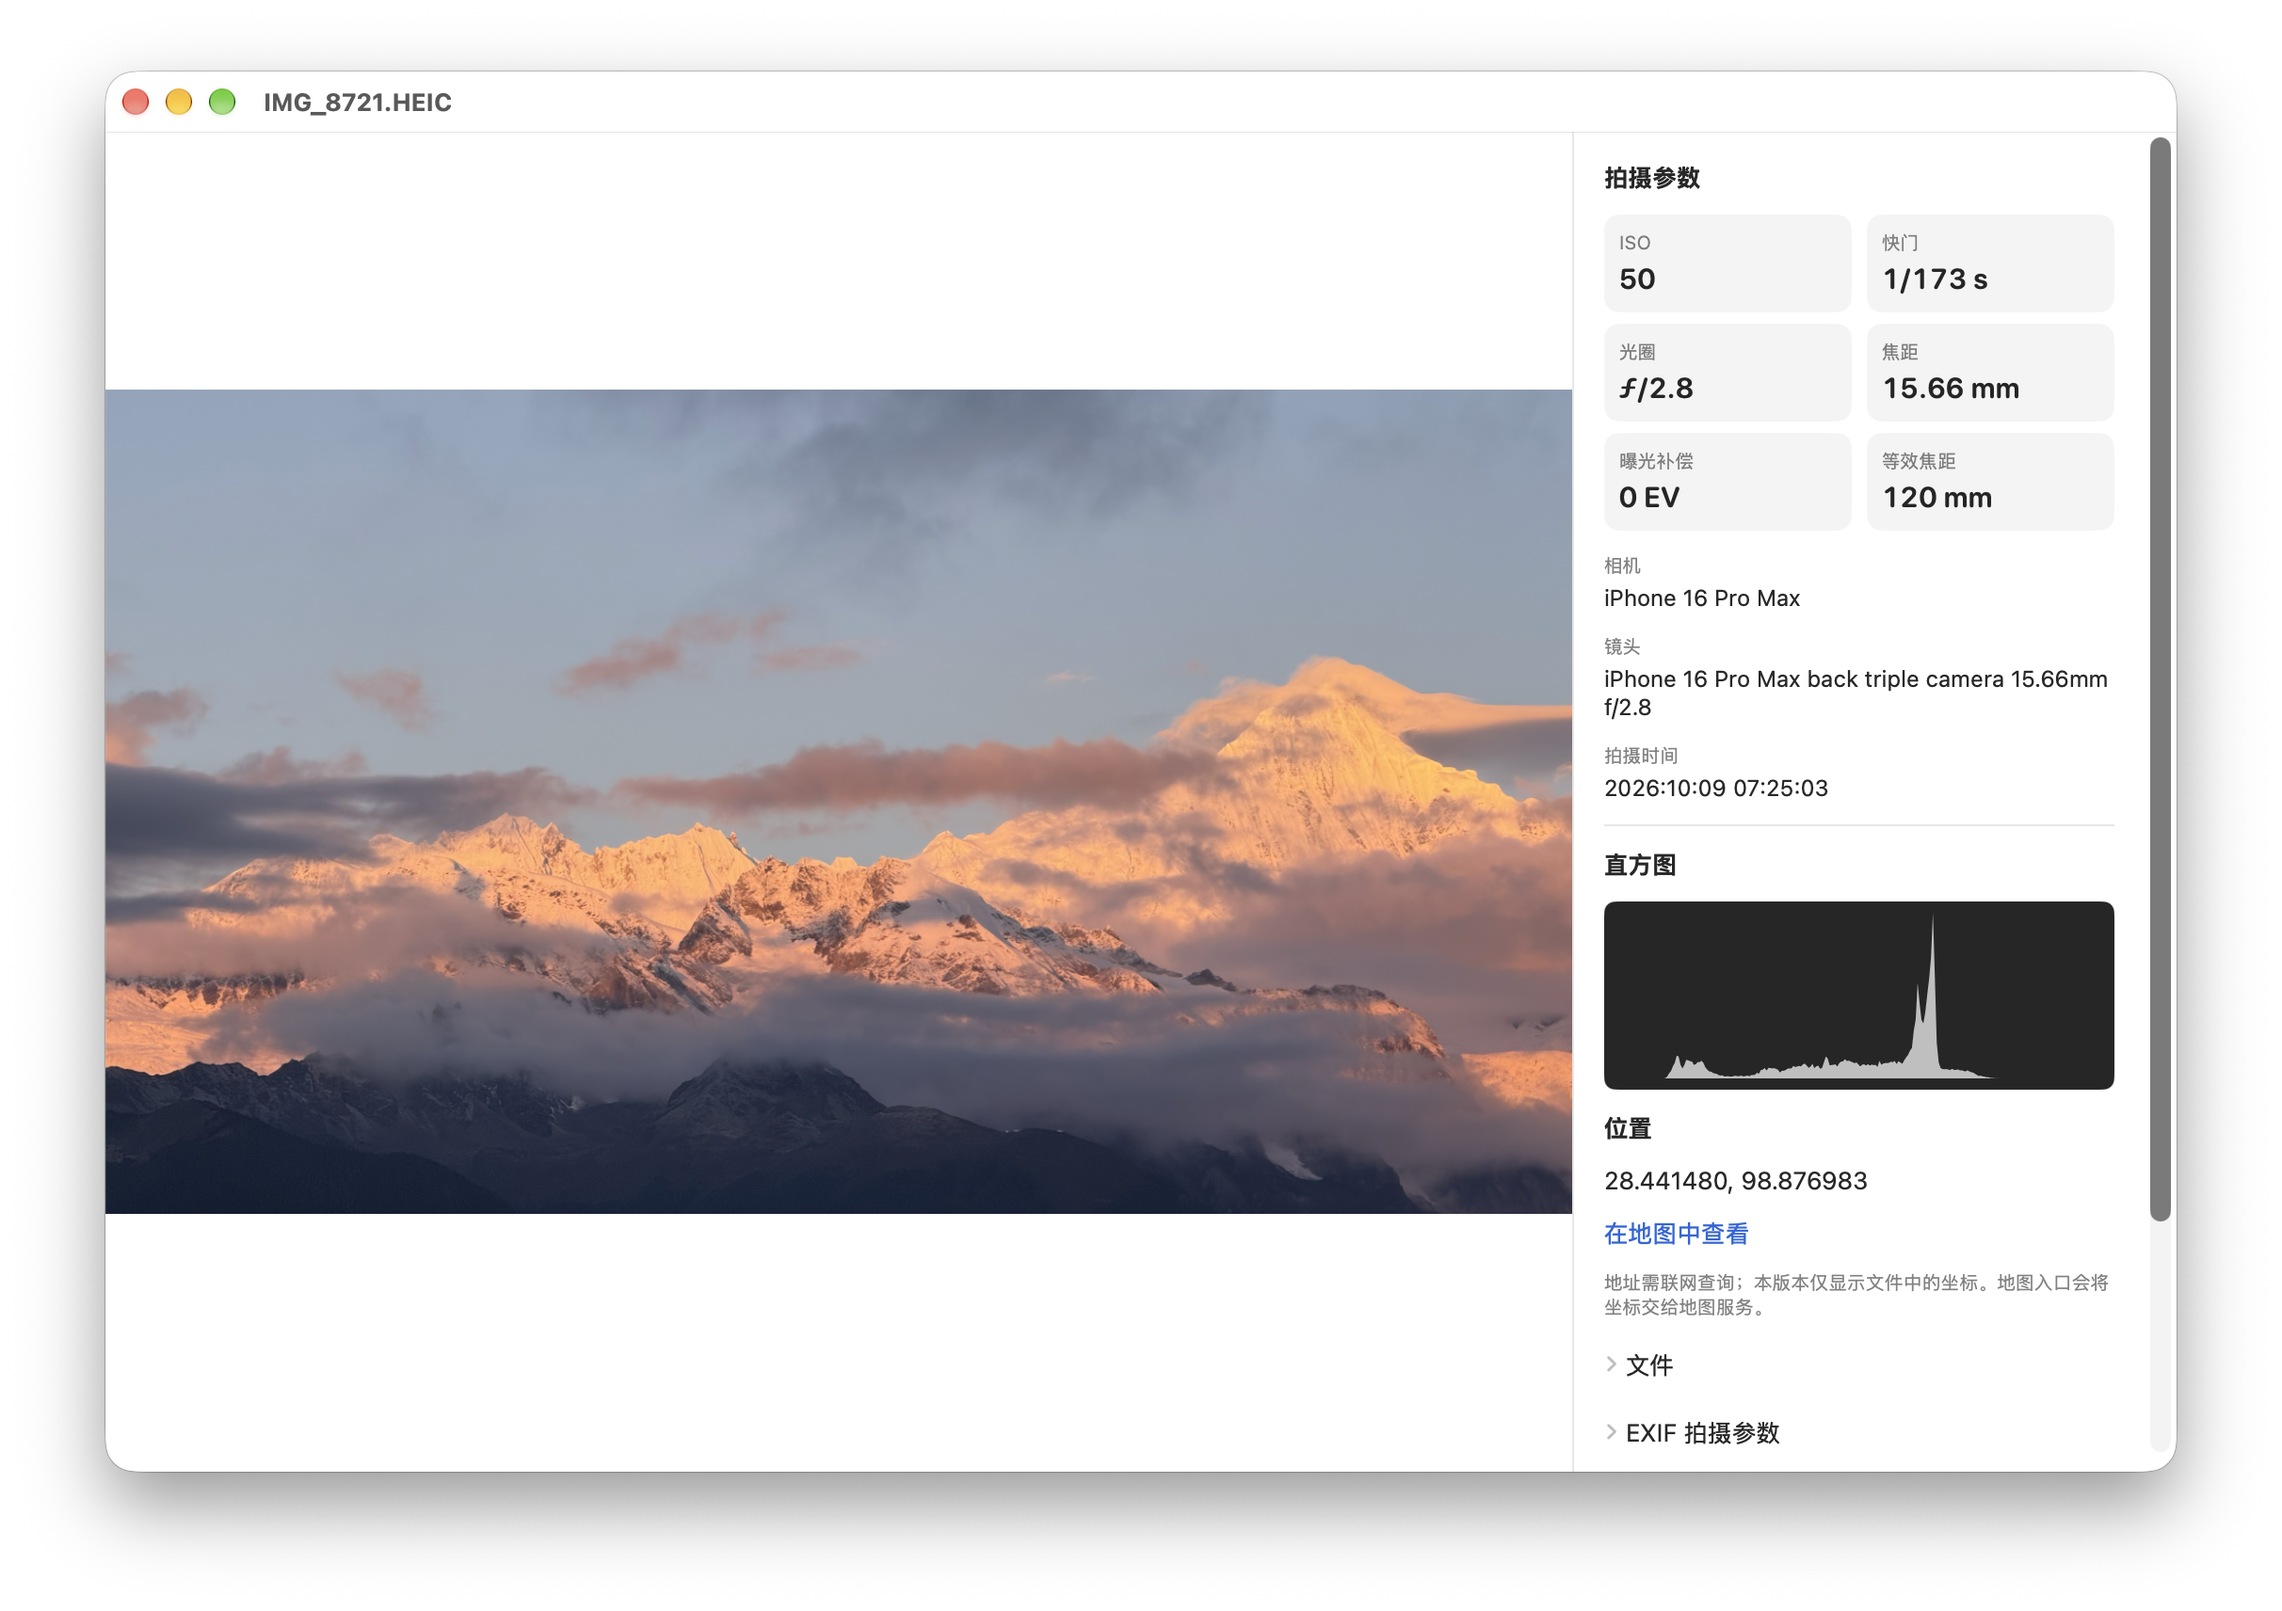
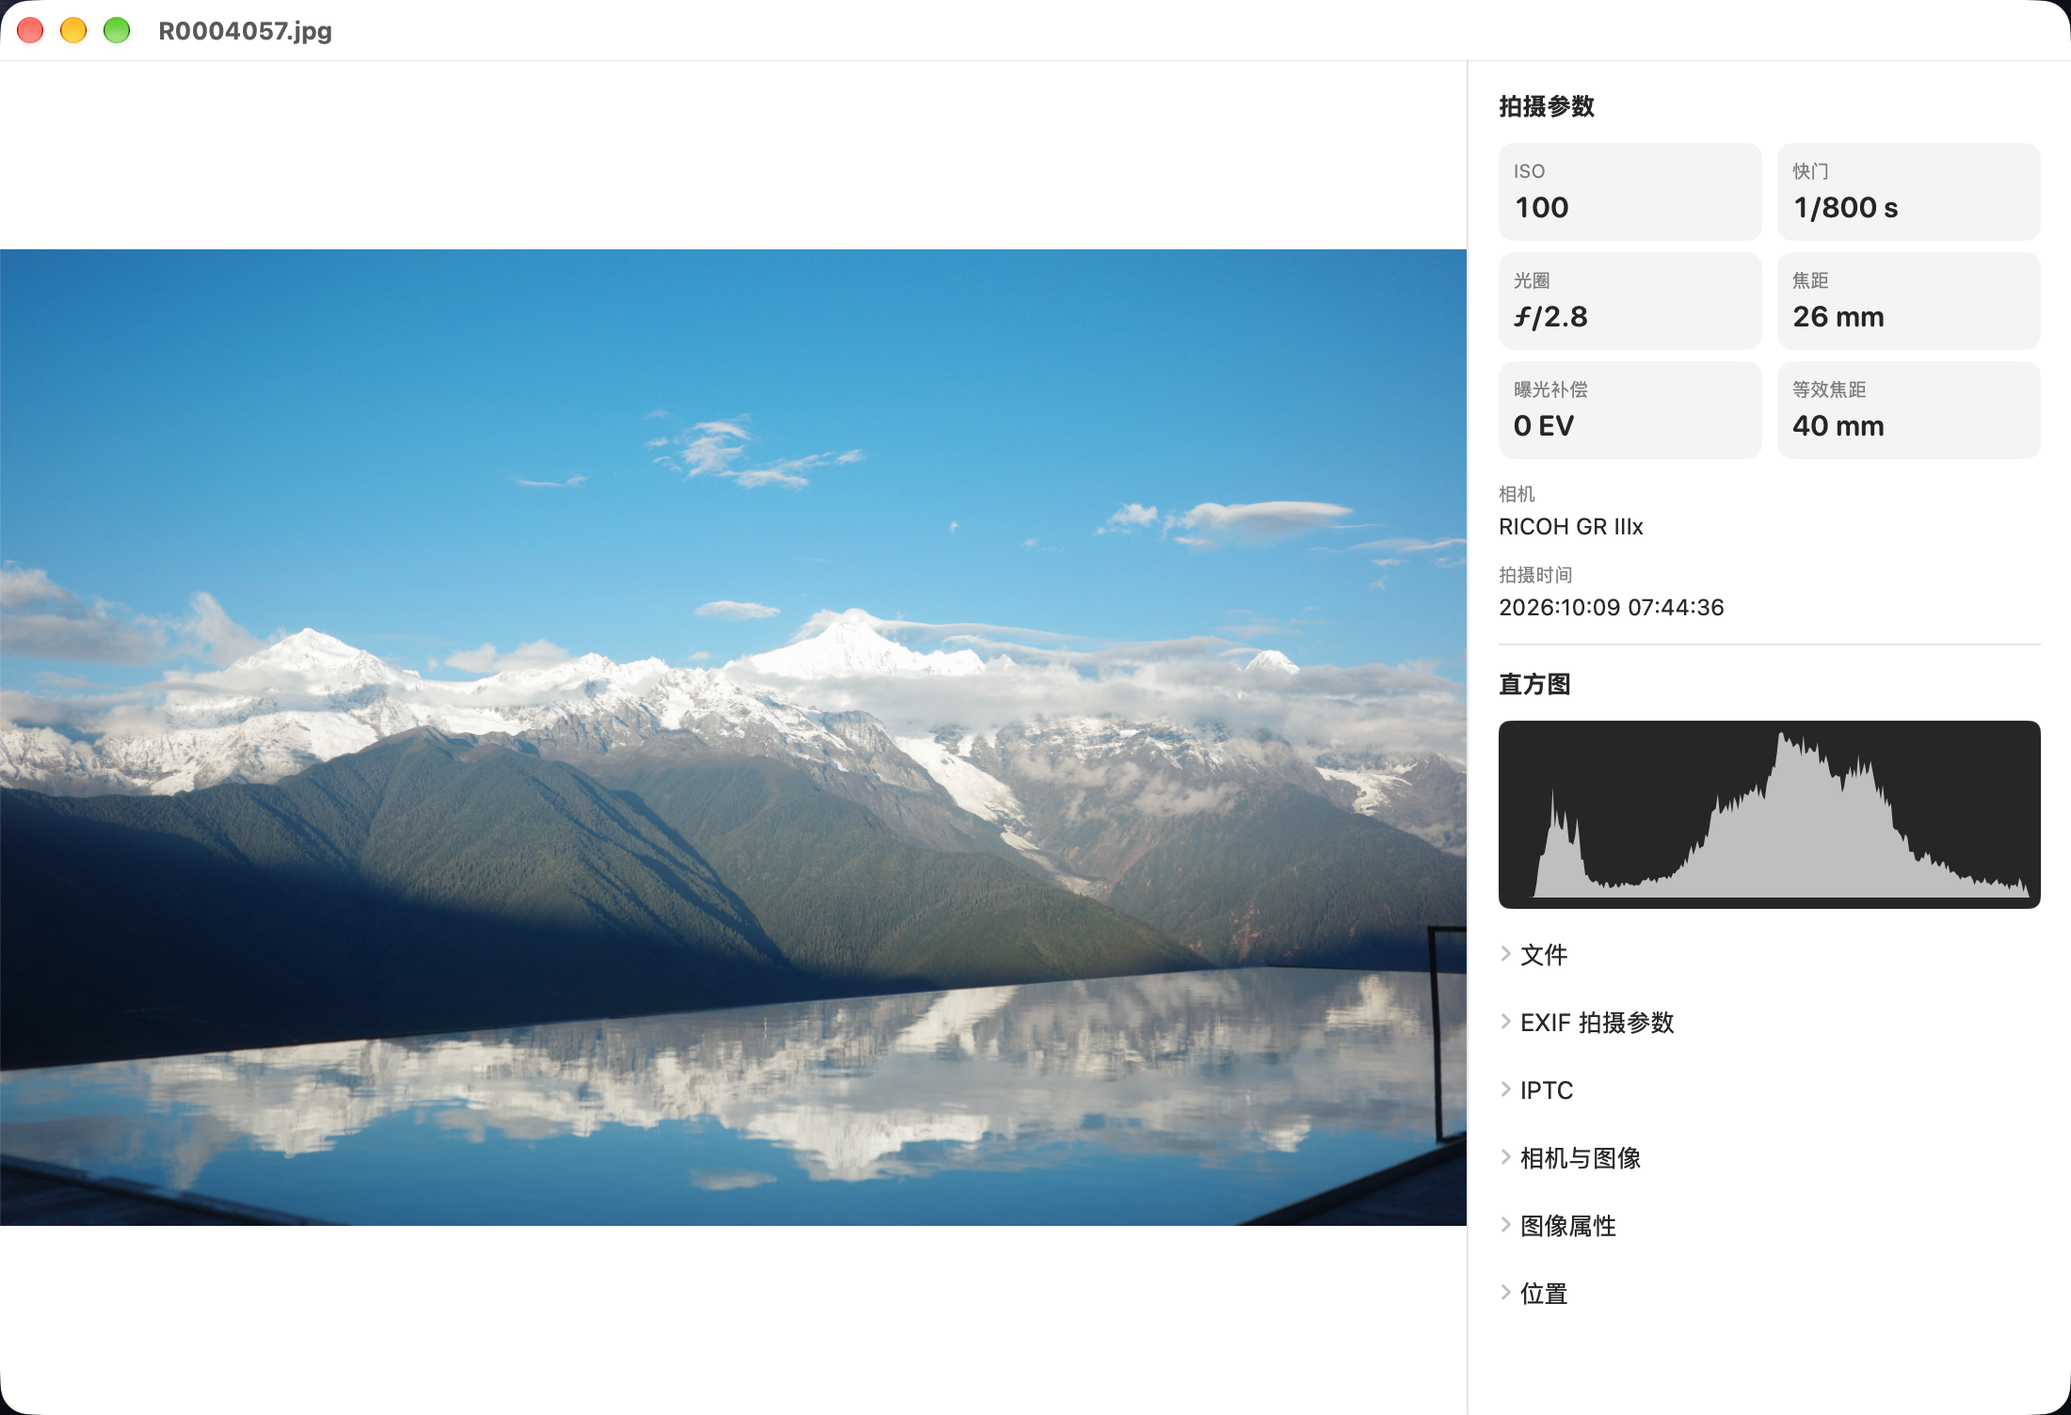
Update QLPhoto screenshots

diff --git a/README.en.md b/README.en.md
@@ -16,8 +16,6 @@ Built with Swift, AppKit, SwiftUI, and the system Image I/O framework, with no t
 
 ![Settings window](docs/images/settings.png)
 
-The settings screenshot predates the rename; PhotoPeek is the former name of QLPhoto.
-
 ## Features
 
 - Preview of JPG / JPEG, HEIC / HEIF, and DNG; DNG decoding compatibility depends on macOS and the camera model.

diff --git a/README.md b/README.md
@@ -16,8 +16,6 @@ macOS 照片预览工具。在 Finder 中选中照片，按空格查看图片、
 
 ![设置窗口](docs/images/settings.png)
 
-设置截图摄于更名前，图中的 PhotoPeek 为 QLPhoto 的旧名称。
-
 ## 功能
 
 - JPG / JPEG、HEIC / HEIF、DNG 预览；DNG 解码兼容性取决于 macOS 与相机型号。
